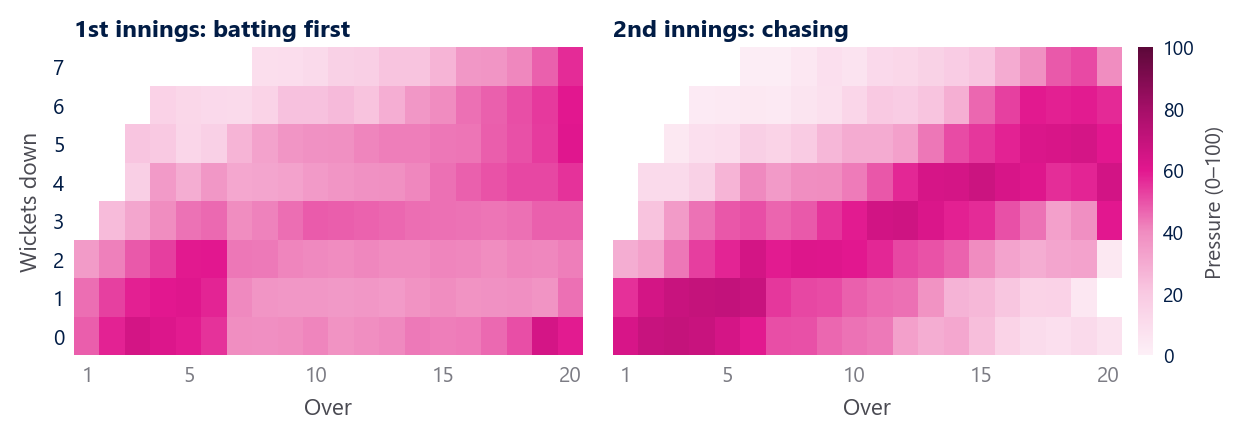
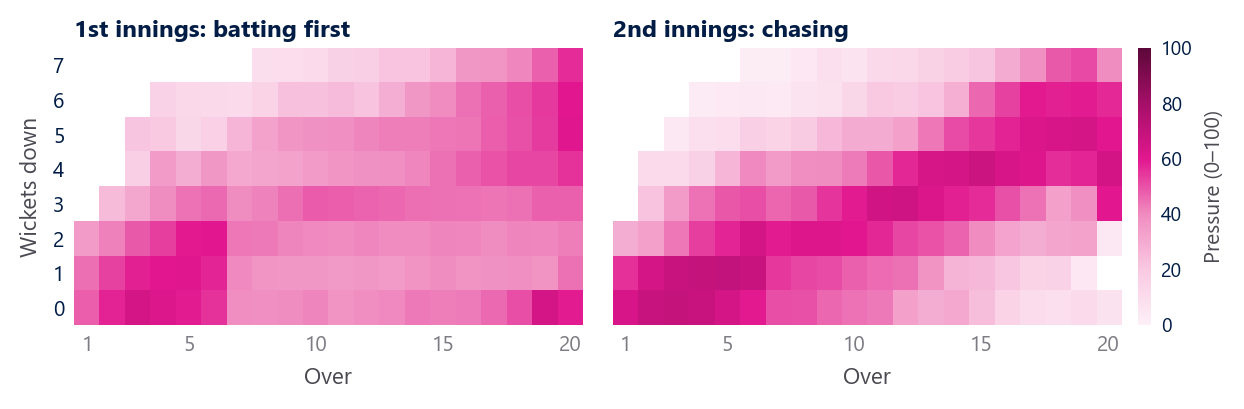
Name all outside competitions on the pressure page; correct range to 80-92%

diff --git a/src/p16_slides_pdf.py b/src/p16_slides_pdf.py
@@ -224,7 +224,7 @@ CH_BAT = dumbbell(bat10, "SR_pressure", "SR_expected_pressure", "Strike rate on 
 CH_BOWL = dumbbell(bowl10, "econ_pressure", "econ_expected_pressure", "Economy on pressure balls (lower is better)", True,
                    lambda g: (f"{g:.1f} saved" if g >= 0.05 else "level"), "runs saved per over", "top10_bowlers")
 # both innings, side by side, on the same colour scale
-fig, axes = plt.subplots(1, 2, figsize=(7.0, 2.0), sharey=True, gridspec_kw={"wspace": 0.06})
+fig, axes = plt.subplots(1, 2, figsize=(7.0, 1.8), sharey=True, gridspec_kw={"wspace": 0.06})
 for ax, tbl, ttl in ((axes[0], "pressure_heatmap_first", "1st innings: batting first"), (axes[1], "pressure_heatmap_chase", "2nd innings: chasing")):
     H = T(tbl).set_index("over_no")
     H = H[[c for c in H.columns if c in [str(i_) for i_ in range(0, 8)]]]
@@ -447,14 +447,15 @@ S.append(slide(f"""
 <div class="fair tight dense">
 {row("9 in 10", "pressure balls<br>come in chases", "Why chases?",
      "In a chase both teams know the target, so every run and wicket changes the result directly. Batting first, nobody knows yet what a "
-     "winning score is, so one ball changes less. Real results agree: in the middle overs, a four instead of a dot changed the chasing team's "
+     "winning score is. Real results agree: in the middle overs, a four instead of a dot changed the chasing team's "
      "win rate by 7%, and the first-innings team's by only 3.4%.")}
 {row("41%", "of the rating<br>is first innings", "The first innings still counts",
      "I don't throw any ball away. Every ball counts in the rating, and a ball with more pressure counts more. So first-innings balls are "
      "not ignored: they make up about 41% of the ratings overall. So a batter who rescues his team from 30 for 3 in the first "
      "innings gets credit for it, and so does the bowler who took those 3 wickets.")}
-{row("80–94%", "in every<br>league", "It's how T20 works",
-     "I checked 3,993 other matches from leagues like the Big Bash, PSL and SA20. In every league, 80% to 94% of pressure balls came in chases. "
+{row("80–92%", "in chases, in every<br>competition", "It's how T20 works",
+     "I checked 3,993 other T20 matches: T20 internationals including 3 World Cups, franchise leagues like the Big Bash, PSL and SA20, "
+     "and India's Syed Mushtaq Ali Trophy (full list on page 14). In every one of them, 80% to 92% of pressure balls came in chases. "
      "So this is how T20 cricket is, not a quirk of my model.")}
 </div>
 <h3>Pressure from both ends</h3>

diff --git a/README.md b/README.md
@@ -128,7 +128,7 @@ Every ball gets a pressure score in three steps:
 <sub>Where pressure is highest, in each innings. Each square is one situation, such as "over 17, 4 wickets down". Darker pink means more pressure, on the same scale for both. Batting first, pressure is lighter and spread out; chasing, it is darker wherever the chase can still go either way.</sub>
 </div>
 
-**Why do 9 in 10 pressure balls come in chases?** In a chase both teams know the target, so every run and every wicket changes the result directly. Batting first, nobody knows yet what a winning score is. This is not a quirk of my model: in every league I checked, 80% to 94% of pressure balls came in chases. First-innings balls still count, because every ball counts in the rating and a higher-pressure ball just counts more. Overall, first-innings balls make up about 41% of the ratings.
+**Why do 9 in 10 pressure balls come in chases?** In a chase both teams know the target, so every run and every wicket changes the result directly. Batting first, nobody knows yet what a winning score is. This is not a quirk of my model. I checked 3,993 other T20 matches: T20 internationals including 3 World Cups, franchise leagues like the Big Bash, PSL and SA20, and India's Syed Mushtaq Ali Trophy (full list under [Does it hold up?](#does-it-hold-up)). In every one of them, 80% to 92% of pressure balls came in chases. First-innings balls still count, because every ball counts in the rating and a higher-pressure ball just counts more. Overall, first-innings balls make up about 41% of the ratings.
 
 ## How it works
 
